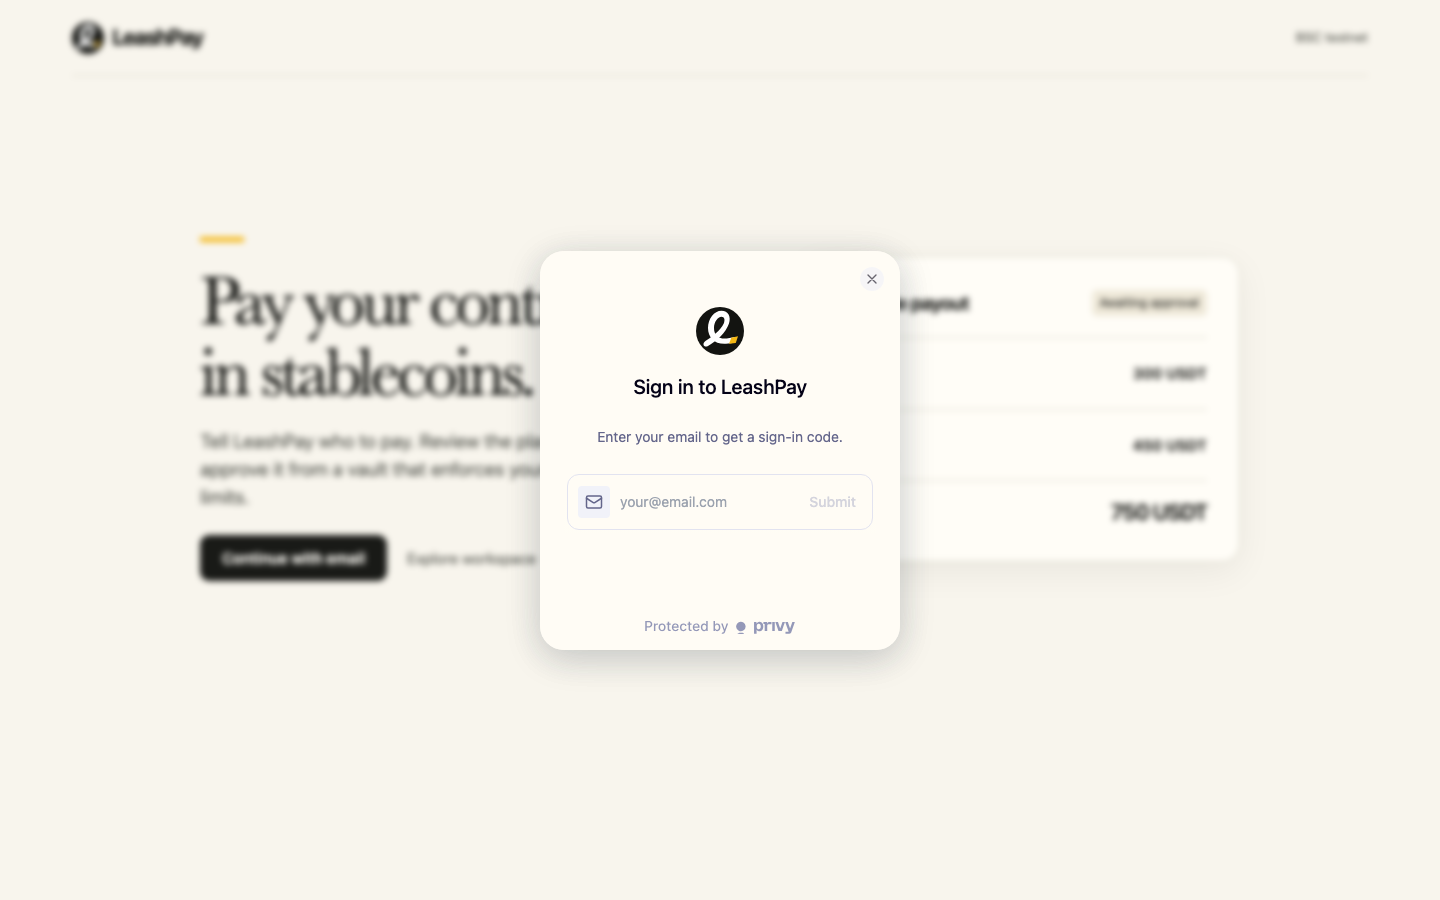
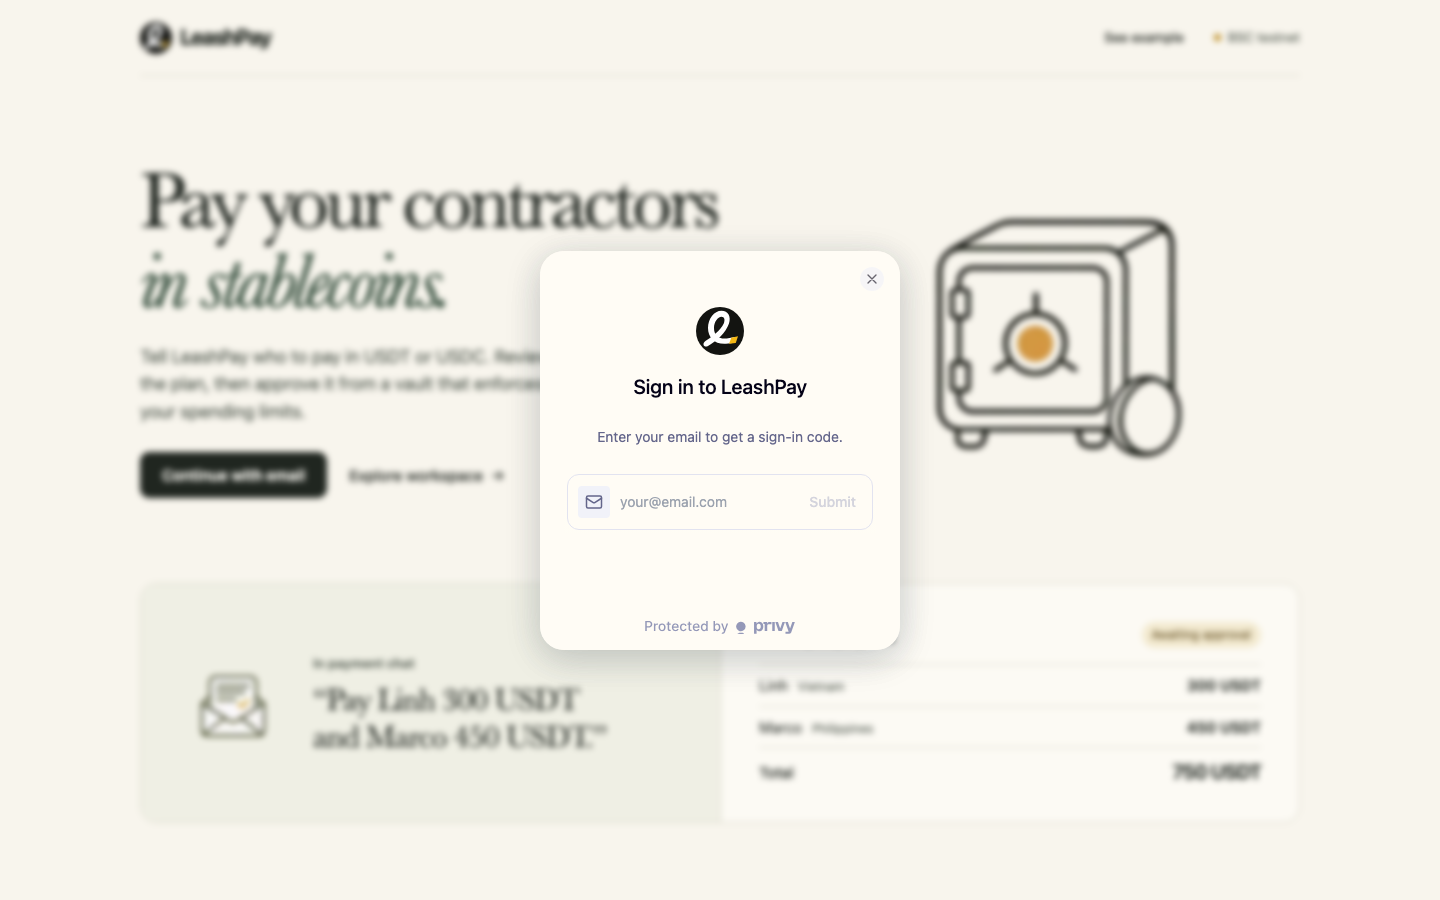
Polish the landing page with minimal vault and payout illustrations

diff --git a/web/app/Welcome.module.css b/web/app/Welcome.module.css
@@ -1,105 +1,115 @@
 .page {
-  --paper-line: #dad7c9;
-  --paper-muted: #54564f;
+  --paper: #f8f5ed;
+  --line: #d9d7c9;
+  --ink: #202620;
+  --muted: #50594f;
+  --green: #364f3e;
+  --serif: Baskerville, Georgia, serif;
   min-height: 100svh;
-  padding: 0 max(5vw, calc((100% - 1440px) / 2 + 72px)) 32px;
-  color: #191a17;
-  background: #f8f5ed;
+  padding: 0 max(5vw, env(safe-area-inset-right)) 48px max(5vw, env(safe-area-inset-left));
+  color: var(--ink);
+  background: var(--paper);
 }
 
-.header {
-  min-height: 76px;
-  display: flex;
-  align-items: center;
-  justify-content: space-between;
-  gap: 16px;
-  border-bottom: 1px solid var(--paper-line);
-}
+.header, .layout { max-width: 1160px; margin-inline: auto; }
+.header, .headerLinks, .actions { display: flex; align-items: center; }
+.header { min-height: 76px; justify-content: space-between; gap: 16px; border-bottom: 1px solid var(--line); }
+.headerLinks { gap: clamp(12px, 2.4vw, 30px); font-size: 13px; }
+.headerLinks a, .actions a { display: inline-flex; align-items: center; min-height: 44px; color: var(--ink); font-weight: 550; }
+.headerLinks a:hover, .actions a:hover { text-decoration: underline; text-underline-offset: 4px; }
+.network { display: inline-flex; align-items: center; gap: 7px; color: var(--muted); white-space: nowrap; }
+.network::before { content: ""; width: 7px; height: 7px; background: #bb8b20; border-radius: 50%; }
 
-.header > span { color: var(--paper-muted); font-size: 13px; }
-
-.layout {
-  width: 100%;
-  max-width: 1040px;
-  min-height: min(74svh, 700px);
-  margin-inline: auto;
-  padding-block: 48px;
+.hero {
   display: grid;
-  grid-template-columns: minmax(0, 1.15fr) minmax(0, 1fr);
+  grid-template-columns: minmax(0, 1.12fr) minmax(0, .88fr);
   align-items: center;
-  gap: clamp(40px, 7vw, 96px);
+  gap: clamp(20px, 3.8vw, 52px);
+  padding-block: clamp(48px, 6vw, 85px);
 }
-
-.intro::before {
-  content: "";
-  display: block;
-  width: 44px;
-  height: 5px;
-  margin-bottom: 24px;
-  background: #f4b715;
-}
-
 .intro h1 {
   margin: 0;
-  font: 500 clamp(44px, 5.1vw, 70px)/1.02 Baskerville, Georgia, serif;
-  letter-spacing: -.055em;
+  font: 500 clamp(46px, 5.7vw, 80px)/1.01 var(--serif);
+  letter-spacing: -.054em;
   text-wrap: balance;
 }
-
-.intro p {
-  max-width: 430px;
-  margin: 18px 0 24px;
-  color: var(--paper-muted);
-  font-size: clamp(16px, 1.4vw, 19px);
-  line-height: 1.48;
-}
-
-.actions { display: flex; align-items: center; flex-wrap: wrap; gap: 6px 20px; }
-.actions a, .signIn { display: inline-flex; align-items: center; justify-content: center; min-height: 46px; font-size: 15px; }
-.actions a { gap: 6px; color: var(--paper-muted); }
-.actions a:hover { color: #191a17; }
-
+.intro h1 em { display: block; color: var(--green); font-weight: inherit; }
+.intro p { max-width: 440px; margin: 20px 0 26px; color: var(--muted); font-size: clamp(16px, 1.4vw, 18px); line-height: 1.55; }
+.actions { flex-wrap: wrap; gap: 4px 22px; }
+.actions a, .signIn { font-size: 15px; }
+.actions a { gap: 8px; justify-content: center; }
 .signIn {
-  border: 0;
+  min-height: 46px;
+  border: 1px solid var(--ink);
   border-radius: 9px;
-  padding: 10px 22px;
-  background: #191a17;
+  padding: 10px 21px;
   color: #fffdf7;
+  background: var(--ink);
   font-weight: 650;
   cursor: pointer;
 }
-.signIn:hover:enabled { background: #343630; }
+.signIn:hover:enabled { background: var(--green); }
 .signIn:disabled { opacity: .65; cursor: wait; }
+.vaultArt { display: block; width: 100%; max-width: 480px; height: auto; justify-self: center; }
 
-.payout {
-  padding: clamp(20px, 3vw, 32px);
-  border: 1px solid var(--paper-line);
-  border-radius: 18px;
-  background: #fffdf7;
-  box-shadow: 0 10px 36px #1518100f;
+.example {
+  display: grid;
+  grid-template-columns: 1fr 1fr;
+  border: 1px solid var(--line);
+  border-radius: 16px;
+  background: #fcfaf4;
+  scroll-margin-block: 18px;
 }
-
+.request, .payout { padding: clamp(20px, 3vw, 38px); }
+.request {
+  margin: 0;
+  display: flex;
+  align-items: center;
+  gap: clamp(14px, 2vw, 26px);
+  border-radius: 16px 0 0 16px;
+  background: #efefe4;
+}
+.request img { width: clamp(64px, 7.5vw, 108px); height: auto; flex: none; }
+.request figcaption { min-width: 0; }
+.request figcaption > span { color: var(--muted); font-size: 13px; font-weight: 600; }
+.request blockquote { max-width: 19ch; margin: 8px 0 0; font: 500 clamp(23px, 2.2vw, 33px)/1.16 var(--serif); letter-spacing: -.025em; }
+.payout { border-left: 1px solid var(--line); }
 .payout header, .payout dl > div { display: flex; justify-content: space-between; align-items: center; gap: 10px; }
 .payout header { flex-wrap: wrap; }
-.payout h2 { margin: 0; font-size: 19px; letter-spacing: -.035em; }
-.status { border-radius: 5px; padding: 4px 8px; background: #efe9d9; font-size: 12px; }
-.payout dl { margin: 20px 0 0; }
-.payout dl > div { border-top: 1px solid var(--paper-line); }
-.payout dd { margin: 0; font-weight: 650; }
-.row { padding-block: 15px; }
-.row small { display: block; color: var(--paper-muted); font-size: 12px; }
-.total { padding-top: 15px; }
-.total dd { font-size: 22px; letter-spacing: -.04em; }
+.payout h2 { margin: 0; font-size: 19px; line-height: 1.2; letter-spacing: -.035em; }
+.status { border-radius: 999px; padding: 4px 10px; background: #f3ead0; color: #614c1e; font-size: 12px; }
+.payout dl { margin: 16px 0 0; }
+.payout dl > div { border-top: 1px solid var(--line); }
+.payout dd { margin: 0; font-weight: 650; white-space: nowrap; }
+.row { padding-block: 9px; }
+.row small { margin-left: 6px; color: var(--muted); font-size: 12px; }
+.total { padding-top: 12px; }
+.total dt { font-weight: 550; }
+.total dd { font-size: 20px; line-height: 1.2; letter-spacing: -.035em; }
 
 @media (max-width: 700px) {
-  .page { padding-inline: max(20px, env(safe-area-inset-left)) max(20px, env(safe-area-inset-right)); }
-  .header { min-height: 56px; }
-  .layout { max-width: 480px; min-height: auto; grid-template-columns: 1fr; gap: 24px; padding-block: 36px; }
-  .intro::before { margin-bottom: 16px; }
-  .intro h1 { font-size: clamp(38px, 10.7vw, 50px); }
+  .page { padding: 0 max(20px, env(safe-area-inset-right)) 28px max(20px, env(safe-area-inset-left)); }
+  .header { min-height: 60px; }
+  .layout { max-width: 480px; }
+  .hero { grid-template-columns: 1fr; gap: 16px; padding-block: 36px 22px; }
+  .intro h1 { font-size: clamp(43px, 9.4vw, 57px); }
   .intro p { margin: 14px 0 18px; }
-  .actions { flex-direction: column; gap: 2px; }
-  .signIn { width: 100%; }
-  .payout { border-radius: 12px; }
-  .row { padding-block: 10px; }
+  .vaultArt { width: min(100%, 310px); }
+  .example { grid-template-columns: 1fr; }
+  .request { border-radius: 16px 16px 0 0; gap: 16px; }
+  .request img { width: 65px; }
+  .request blockquote { font-size: 23px; margin-top: 4px; }
+  .payout { border-left: 0; border-top: 1px solid var(--line); }
+}
+
+@media (max-width: 380px) {
+  .header { gap: 6px; }
+  .headerLinks { gap: 12px; font-size: 12px; }
+  .network { gap: 4px; }
+  .row small { display: block; margin-left: 0; }
+}
+
+@media (max-width: 480px) {
+  .actions { flex-direction: column; align-items: stretch; gap: 2px; }
+  .vaultArt { width: min(100%, 255px); }
 }

diff --git a/web/app/page.tsx b/web/app/page.tsx
@@ -1,6 +1,7 @@
 "use client";
 
 import { usePrivy } from "@privy-io/react-auth";
+import Image from "next/image";
 import Link from "next/link";
 import { Brand } from "@/components/Brand";
 import { Workspace } from "@/components/Workspace";
@@ -14,29 +15,45 @@ export default function Home() {
     <div className={styles.page}>
       <header className={styles.header}>
         <Brand />
-        <span>BSC testnet</span>
+        <div className={styles.headerLinks}>
+          <a href="#example-payout">See example</a>
+          <span className={styles.network}>BSC testnet</span>
+        </div>
       </header>
       <main className={styles.layout}>
-        <section className={styles.intro} aria-labelledby="welcome-title">
-          <h1 id="welcome-title">Pay your contractors in stablecoins.</h1>
-          <p>Tell LeashPay who to pay. Review the plan, then approve it from a vault that enforces your spending limits.</p>
-          <div className={styles.actions}>
-            <button className={styles.signIn} type="button" disabled={!ready} onClick={() => login()}>
-              Continue with email
-            </button>
-            <Link href="/workspace">Explore workspace <span aria-hidden="true">→</span></Link>
+        <section className={styles.hero} aria-labelledby="welcome-title">
+          <div className={styles.intro}>
+            <h1 id="welcome-title">Pay your contractors <em>in stablecoins.</em></h1>
+            <p>Tell LeashPay who to pay in USDT or USDC. Review the plan, then approve it from a vault that enforces your spending limits.</p>
+            <div className={styles.actions}>
+              <button className={styles.signIn} type="button" disabled={!ready} onClick={() => login()}>
+                Continue with email
+              </button>
+              <Link href="/workspace">Explore workspace <span aria-hidden="true">→</span></Link>
+            </div>
           </div>
+          <Image className={styles.vaultArt} src="/illustrations/payment-vault.webp" alt=""
+            width={1200} height={800} sizes="(max-width: 700px) 90vw, (max-width: 1250px) 48vw, 590px" loading="eager" />
         </section>
-        <section className={styles.payout} aria-labelledby="example-title">
-          <header>
-            <h2 id="example-title">Example payout</h2>
-            <span className={styles.status}>Awaiting approval</span>
-          </header>
-          <dl>
-            <div className={styles.row}><dt>Linh <small>Vietnam</small></dt><dd>300 USDT</dd></div>
-            <div className={styles.row}><dt>Marco <small>Philippines</small></dt><dd>450 USDT</dd></div>
-            <div className={styles.total}><dt>Total</dt><dd>750 USDT</dd></div>
-          </dl>
+        <section className={styles.example} id="example-payout" aria-labelledby="example-title" tabIndex={-1}>
+          <figure className={styles.request}>
+            <Image src="/illustrations/payout-slip.webp" alt="" width={112} height={112} />
+            <figcaption>
+              <span>In payment chat</span>
+              <blockquote>“Pay Linh 300 USDT and Marco 450 USDT.”</blockquote>
+            </figcaption>
+          </figure>
+          <div className={styles.payout}>
+            <header>
+              <h2 id="example-title">Example payout</h2>
+              <span className={styles.status}>Awaiting approval</span>
+            </header>
+            <dl>
+              <div className={styles.row}><dt>Linh <small>Vietnam</small></dt><dd>300 USDT</dd></div>
+              <div className={styles.row}><dt>Marco <small>Philippines</small></dt><dd>450 USDT</dd></div>
+              <div className={styles.total}><dt>Total</dt><dd>750 USDT</dd></div>
+            </dl>
+          </div>
         </section>
       </main>
     </div>

diff --git a/web/test/workspace.test.ts b/web/test/workspace.test.ts
@@ -28,7 +28,7 @@ describe("public workspace", () => {
   it.each([true, false])("offers email sign-in and a public preview on the home page (ready: %s)", ready => {
     auth.ready = ready;
     const html = renderToStaticMarkup(createElement(Home));
-    expect(html).toContain("Pay your contractors in stablecoins.");
+    expect(html.replace(/<[^>]+>/g, "")).toContain("Pay your contractors in stablecoins.");
     expect(html).toContain("Example payout");
     expect(html).toMatch(/href="\/workspace"/);
     const button = html.match(/<button[^>]*>Continue with email<\/button>/)?.[0];
